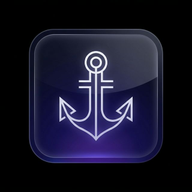
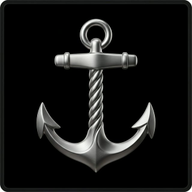
Updates

diff --git a/sw.js b/sw.js
@@ -1,1 +1,1 @@
-if(!self.define){let e,i={};const n=(n,s)=>(n=new URL(n+".js",s).href,i[n]||new Promise(i=>{if("document"in self){const e=document.createElement("script");e.src=n,e.onload=i,document.head.appendChild(e)}else e=n,importScripts(n),i()}).then(()=>{let e=i[n];if(!e)throw new Error(`Module ${n} didn’t register its module`);return e}));self.define=(s,r)=>{const o=e||("document"in self?document.currentScript.src:"")||location.href;if(i[o])return;let c={};const d=e=>n(e,o),t={module:{uri:o},exports:c,require:d};i[o]=Promise.all(s.map(e=>t[e]||d(e))).then(e=>(r(...e),c))}}define(["./workbox-8c29f6e4"],function(e){"use strict";self.skipWaiting(),e.clientsClaim(),e.precacheAndRoute([{url:"pwa-512x512.png",revision:"409a731c4bc3ec68a104dc9047623749"},{url:"pwa-192x192.png",revision:"93397fa13b36d05a95303c520b0335d0"},{url:"index.html",revision:"752cdda4ecf2c34667a67752e701dcfe"},{url:"icon-512-v2.png",revision:"409a731c4bc3ec68a104dc9047623749"},{url:"icon-192-v2.png",revision:"93397fa13b36d05a95303c520b0335d0"},{url:"assets/workbox-window.prod.es5-vqzQaGvo.js",revision:null},{url:"assets/index-DS7VC-W3.js",revision:null},{url:"assets/index-C4a-d12J.css",revision:null},{url:"pwa-192x192.png",revision:"93397fa13b36d05a95303c520b0335d0"},{url:"pwa-512x512.png",revision:"409a731c4bc3ec68a104dc9047623749"},{url:"manifest.webmanifest",revision:"26b6d3e022b44e3ade11078a221de4c8"}],{}),e.cleanupOutdatedCaches(),e.registerRoute(new e.NavigationRoute(e.createHandlerBoundToURL("index.html")))});
+if(!self.define){let e,i={};const n=(n,s)=>(n=new URL(n+".js",s).href,i[n]||new Promise(i=>{if("document"in self){const e=document.createElement("script");e.src=n,e.onload=i,document.head.appendChild(e)}else e=n,importScripts(n),i()}).then(()=>{let e=i[n];if(!e)throw new Error(`Module ${n} didn’t register its module`);return e}));self.define=(s,r)=>{const o=e||("document"in self?document.currentScript.src:"")||location.href;if(i[o])return;let c={};const d=e=>n(e,o),t={module:{uri:o},exports:c,require:d};i[o]=Promise.all(s.map(e=>t[e]||d(e))).then(e=>(r(...e),c))}}define(["./workbox-8c29f6e4"],function(e){"use strict";self.skipWaiting(),e.clientsClaim(),e.precacheAndRoute([{url:"pwa-512x512.png",revision:"f63a54dcf7f72c8c16789e692d5e8de6"},{url:"pwa-192x192.png",revision:"683e6c89eb2a017a30e8fd24b850fafc"},{url:"index.html",revision:"752cdda4ecf2c34667a67752e701dcfe"},{url:"icon-512-v2.png",revision:"409a731c4bc3ec68a104dc9047623749"},{url:"icon-192-v2.png",revision:"93397fa13b36d05a95303c520b0335d0"},{url:"assets/workbox-window.prod.es5-vqzQaGvo.js",revision:null},{url:"assets/index-DS7VC-W3.js",revision:null},{url:"assets/index-C4a-d12J.css",revision:null},{url:"pwa-192x192.png",revision:"683e6c89eb2a017a30e8fd24b850fafc"},{url:"pwa-512x512.png",revision:"f63a54dcf7f72c8c16789e692d5e8de6"},{url:"manifest.webmanifest",revision:"26b6d3e022b44e3ade11078a221de4c8"}],{}),e.cleanupOutdatedCaches(),e.registerRoute(new e.NavigationRoute(e.createHandlerBoundToURL("index.html")))});
